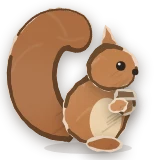
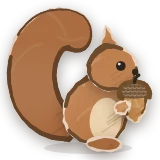
Squirrel's acorn: one cut piece with scaled cap and stem
Claude-Session: https://claude.ai/code/session_01NmSHXVsYomvZ8ynjAqML4v

Changed region(s): [[0.6562, 0.4375, 0.9688, 0.8125]]

diff --git a/design/art/src/hanji_export.js b/design/art/src/hanji_export.js
@@ -103,8 +103,16 @@
       gPiece(ctx, [[25.2, 12.6], [26.4, 6.6], [29.4, 11.6]], "#BD7D4B", { line: 1.8 });
       gPiece(ctx, gOval(28, 17, 6, 5.4, 0.15), "#BD7D4B");
       gEye(ctx, 30.2, 16.2, 3, 0.4); ctx.fillStyle = GINK; ctx.beginPath(); ctx.arc(33.8, 18, 0.8, 0, 7); ctx.fill();
-      gPiece(ctx, gOval(31.4, 26, 1.7 * 1.2, 2.1 * 1.2, 0), "#B07A4A", { line: 1.2 }); gPiece(ctx, [[28.9, 24.6], [33.9, 24.6], [33.3, 22.8], [29.5, 22.8]], "#7A5A3A", { line: 1.2 });
-      gPiece(ctx, gOval(29.6, 26.4, 2.1, 1.4, -0.3), "#C98A57", { line: 1.2 }); gPiece(ctx, gOval(26, 36, 4.2, 1.5), "#A8693D", { line: 1.2 }); }
+// 도토리: 깍정이 + 열매를 한 장으로 오려 윤곽 하나, 깍정이 (비늘 무늬) 는 안쪽에 칠함 · 꼭지는 먹선
+      var ax = 33.6, at = 21.2, cap = bez([ax - 3.7, at + 3, ax - 3.9, at + 0.6, ax - 2.2, at - 0.8, ax, at - 0.8, ax + 2.2, at - 0.8, ax + 3.9, at + 0.6, ax + 3.7, at + 3], 8);
+      var nut = bez([ax + 3, at + 3.1, ax + 3.3, at + 5.8, ax + 1.6, at + 8.4, ax, at + 9.2, ax - 1.6, at + 8.4, ax - 3.3, at + 5.8, ax - 3, at + 3.1], 8);
+      gPiece(ctx, cap.concat(nut), "#C48543", { line: 1.2, inner: function (c) {
+        c.fillStyle = "rgba(255,244,222,.5)"; c.beginPath(); c.ellipse(ax - 1.4, at + 5.4, 0.6, 1.7, 0.15, 0, 7); c.fill();
+        c.fillStyle = "#6E4E31"; c.beginPath(); cap.forEach(function (q, i) { i ? c.lineTo(q[0], q[1]) : c.moveTo(q[0], q[1]); }); c.quadraticCurveTo(ax, at + 4, ax - 3.7, at + 3); c.fill();
+        c.strokeStyle = "rgba(235,215,185,.35)"; c.lineWidth = 0.3; c.lineCap = "round";
+        for (var y = at - 0.2, r = 0; y < at + 3.2; y += 0.9, r++) for (var x = ax - 3.8 + (r % 2) * 0.55; x < ax + 3.8; x += 1.1) { c.beginPath(); c.moveTo(x - 0.4, y); c.quadraticCurveTo(x, y + 0.5, x + 0.4, y); c.stroke(); } } });
+      ctx.strokeStyle = GINK; ctx.lineWidth = 0.8; ctx.lineCap = "round"; ctx.beginPath(); ctx.moveTo(ax, at - 0.6); ctx.quadraticCurveTo(ax + 0.2, at - 2, ax + 1.1, at - 2.4); ctx.stroke();
+      gPiece(ctx, gOval(30.6, 26.8, 1.8, 1.3, -0.4), "#C98A57", { line: 1.2 }); gPiece(ctx, gOval(26, 36, 4.2, 1.5), "#A8693D", { line: 1.2 }); }
     else if (kind === "hedgehog") {   // 고슴도치: 둥근 언덕 몸, 등에 짧은 가시 몇 줄 (먹선), 연한 얼굴 · 까만 코
       gShadow(ctx, 20, 28);
       gPiece(ctx, gOval(19, 27.5, 14.6, 12, 0, 0.62), "#8A6B4C", { inner: function (c) { c.strokeStyle = "rgba(51,40,31,.7)"; c.lineWidth = 1.1; c.lineCap = "round";
